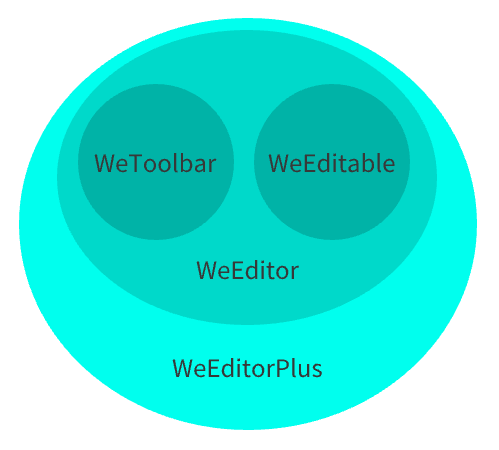
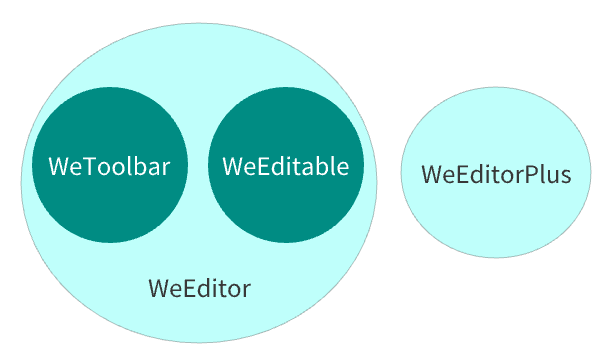
docs: 多语言

diff --git a/docs/.vuepress/config.js b/docs/.vuepress/config.js
@@ -78,6 +78,7 @@ module.exports = {
             '/guide/typescript.md',
             '/guide/vue-cli.md',
             '/guide/relevance.md',
+            '/guide/locale.md',
           ],
           '/shadow/': ['/shadow/README.md', '/shadow/start.md', '/shadow/css-rule.md'],
           '/extension/': ['/extension/README.md', '/extension/toggle-mode.md'],

diff --git a/docs/extension/toggle-mode.md b/docs/extension/toggle-mode.md
@@ -1,8 +1,10 @@
 # toggle-mode
 
-> [wangEditor 文档：mode 模式](https://www.wangeditor.com/v5/getting-started.html#mode-%E6%A8%A1%E5%BC%8F)
+> `v0.0.9+` 新增
 
 用于切换编辑器的模式，可以对**编辑器**、**菜单栏**和**编辑区**的 `mode` 进行切换。_在此文中的**编辑器**代指**菜单栏**和**编辑区**的构成的整体。_
+
+> [wangEditor 文档：mode 模式](https://www.wangeditor.com/v5/getting-started.html#mode-%E6%A8%A1%E5%BC%8F)
 
 ## 快速开始
 
@@ -93,4 +95,44 @@ type Standrad = 'toolbar' | 'editable' | 'auto'
 
 ### locale
 
-这是多语言配置，如果你不喜欢默认的配置，那么你可以定义自己想要的，或者在这里添加其它的语言支持。默认支持 `en` 和 `zh-CN` 两种语言。
+这是多语言配置，如果你不喜欢默认的配置，那么你可以定义自己想要的，或者在这里添加其它的语言支持（会与默认配置进行合并）。默认支持 `en` 和 `zh-CN` 两种语言。
+
+## 多语言/国际化
+
+### 声明
+
+```ts
+import type { ToggleModeLanguage } from 'wangeditor5-for-vue3'
+
+const zhTW: ToggleModeLanguage = {
+  mode: {
+    title: '切換模式',
+    editor: '${mode} 編輯器',
+    toolbar: '${mode} 菜單欄',
+    editable: '${mode} 編輯區',
+    standardAuto: '切換編輯器模式',
+  },
+}
+```
+
+### 注册
+
+**方法一**：使用 `@wangeditor/editor` 内置的多语言注册函数进行注册。
+
+```ts
+import { i18nAddResources } from '@wangeditor/editor'
+
+i18nAddResources('zh-tw', zhTW)
+```
+
+**方法二**：使用 `wangeditor5-for-vue3` 的 `registToggleMode` 函数，在我们注册 `toggle-mode` 菜单的时候，将新增的多语言放置在多语言配置项中即可多语言的注册。
+
+```ts
+import { registToggleMode } from 'wangeditor5-for-vue3'
+
+registToggleMode({
+  locale: {
+    'zh-tw': zhTW,
+  },
+})
+```

diff --git a/docs/guide/locale.md b/docs/guide/locale.md
@@ -1,0 +1,39 @@
+# 多语言/国际化
+
+> `v0.1.0+` 新增
+
+`wangeditor5-for-vue3` 组件库的内部报错信息支持多语言配置，默认支持**简体中文**和**英语**两种语言。
+
+```ts
+import type { VComponentLanguage } from 'wangeditor5-for-vue3'
+import { i18nAddResources } from '@wangeditor/editor'
+
+const zhTW: VComponentLanguage = {
+  vcomponent: {
+    initialize: '你必須使用由 “useWangEditor” 函數創建的 ${component} Option！',
+    instance: '無法獲取 ${component} 實例！',
+  },
+}
+
+// 注册繁体中文
+i18nAddResources('zh-tw', zhTW)
+```
+
+如果你希望在自己的扩展中能像 `wangeditor5-for-vue3` 一样支持模板字面量语法，那么你可以依赖 `wangeditor5-for-vue3` 中的 `tt` 函数进行开发。
+
+_如果你依赖了 `tt` 函数，那么你的私人定制将离不开 `wangeditor5-for-vue3` 组件库，除非你将 `tt` 函数的代码拷贝到你的私人定制中。_
+
+`tt` 函数的第一个参数为 `@wangeditor/editor` 导出的多语言 [t 函数](https://www.wangeditor.com/v5/i18n.html)的参数，第二个到第 n 个参数依次对应模板字符串中的变量。
+
+```ts
+import { i18nAddResources } from '@wangeditor/editor'
+import { tt } from 'wangeditor5-for-vue3'
+
+// 注册多语言
+i18nAddResources('zh-CN', {
+  info: 'name：${name}，age：${age}，sex：${sex}',
+})
+
+// 使用多语言
+const info = tt('info', '匿名', 18, '男') // 'name：匿名，age：18，sex：男'
+```

diff --git a/docs/guide/relevance.md b/docs/guide/relevance.md
@@ -1,5 +1,5 @@
 # 组件关系
 
-整个组件关系中，`WeToolbar` 和 `WeEditable` 是最基础的组件，在此基础上封装的 `WeEditor` 组件，而 `WeEditorPlus` 组件则是 `WeEditor` 的进一步封装。
+整个组件关系中，`WeToolbar` 和 `WeEditable` 是最基础的组件，在此基础上封装的 `WeEditor` 组件，而 `WeEditorPlus` 组件则是完全独立的组件。
 
 ![组件关系图](/images/relevance.png)
